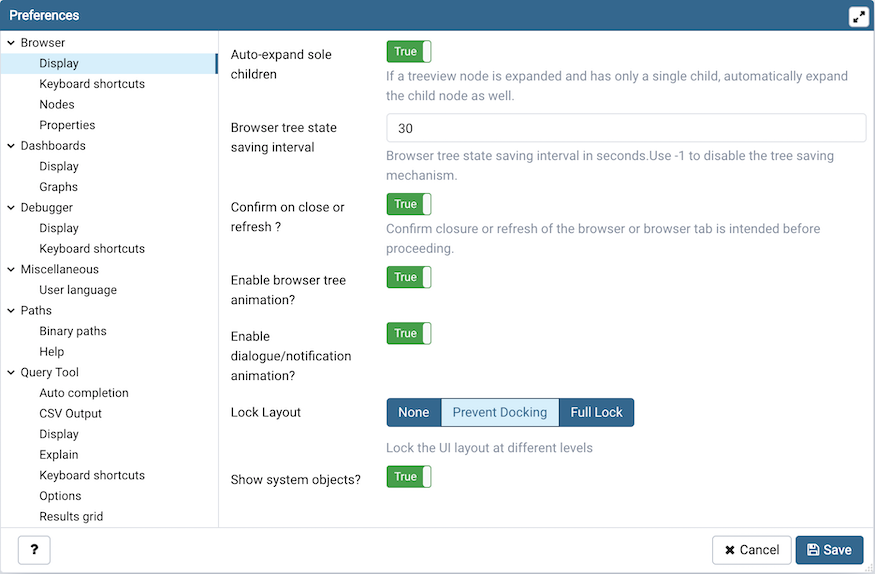
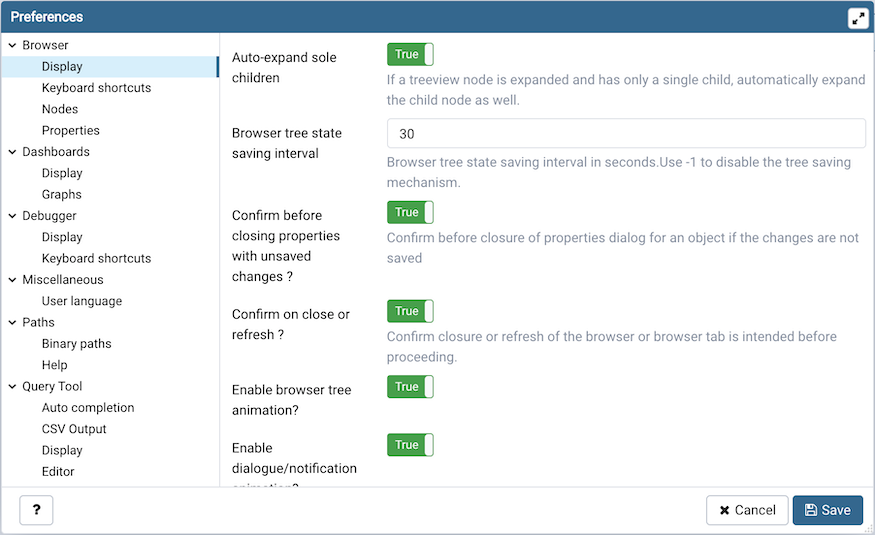
Add an option to request confirmation before cancelling changes on a Properties dialog. Fixes #4315

diff --git a/web/pgadmin/browser/static/js/node.js b/web/pgadmin/browser/static/js/node.js
@@ -1535,6 +1535,39 @@ define('pgadmin.browser.node', [
         onEdit = editInNewPanel.bind(panel);
       }
       if (panel.closeable()) {
+        panel.on(wcDocker.EVENT.CLOSING, function() {
+          var j = this.$container.find('.obj_properties').first(),
+            view = j && j.data('obj-view'),
+            self = this;
+
+          let confirm_on_properties_close = pgBrowser.get_preferences_for_module('browser').confirm_on_properties_close;
+          if (view && view.model && confirm_on_properties_close) {
+            if(view.model.sessChanged()){
+              Alertify.confirm(
+                gettext('Warning'),
+                gettext('Changes will be lost. Are you sure you want to close the dialog?'),
+                function() {
+                  setTimeout(function(){
+                    self.off(wcDocker.EVENT.CLOSING);
+                    self.close();
+                  }, 50);
+                  return true;
+                },
+                function() {
+                  return true;
+                }
+              ).set('labels', {
+                ok: gettext('Yes'),
+                cancel: gettext('No'),
+              }).show();
+            } else {
+              return true;
+            }
+          } else {
+            return true;
+          }
+        }.bind(panel));
+
         var onCloseFunc = function() {
           var j = this.$container.find('.obj_properties').first(),
             view = j && j.data('obj-view');

diff --git a/web/pgadmin/browser/register_browser_preferences.py b/web/pgadmin/browser/register_browser_preferences.py
@@ -55,6 +55,17 @@ def register_browser_preferences(self):
     )
 
     self.preference.register(
+        'display', 'confirm_on_properties_close',
+        gettext("Confirm before closing properties with unsaved changes?"),
+        'boolean',
+        True, category_label=gettext('Display'),
+        help_str=gettext(
+            'Confirm before closure of the properties dialog for an object if '
+            'the changes are not saved.'
+        )
+    )
+
+    self.preference.register(
         'display', 'auto_expand_sole_children',
         gettext("Auto-expand sole children"), 'boolean', True,
         category_label=gettext('Display'),

diff --git a/docs/en_US/preferences.rst b/docs/en_US/preferences.rst
@@ -34,6 +34,10 @@ Use the fields on the *Display* panel to specify general display preferences:
   saving interval. A value of *-1* will disable the treeview state saving
   functionality.
 
+* When the *Confirm before closing properties with unsaved changes* switch is set to *True*,
+  pgAdmin will warn you before closing the properties dialog of an object if there
+  are any unsaved changes. On user confirmation, the properties dialog will close.
+
 * When the *Confirm on close or refresh* switch is set to *True*, pgAdmin will
   attempt to catch browser close or refresh events and prompt before allowing
   them to continue.

diff --git a/docs/en_US/release_notes_4_15.rst b/docs/en_US/release_notes_4_15.rst
@@ -10,6 +10,7 @@ New features
 ************
 
 | `Issue #1974 <https://redmine.postgresql.org/issues/1974>`_ -  Added encrypted password in reverse engineered SQL for roles.
+| `Issue #4315 <https://redmine.postgresql.org/issues/4315>`_ -  Add an option to request confirmation before cancelling changes on a Properties dialog.
 
 Housekeeping
 ************
